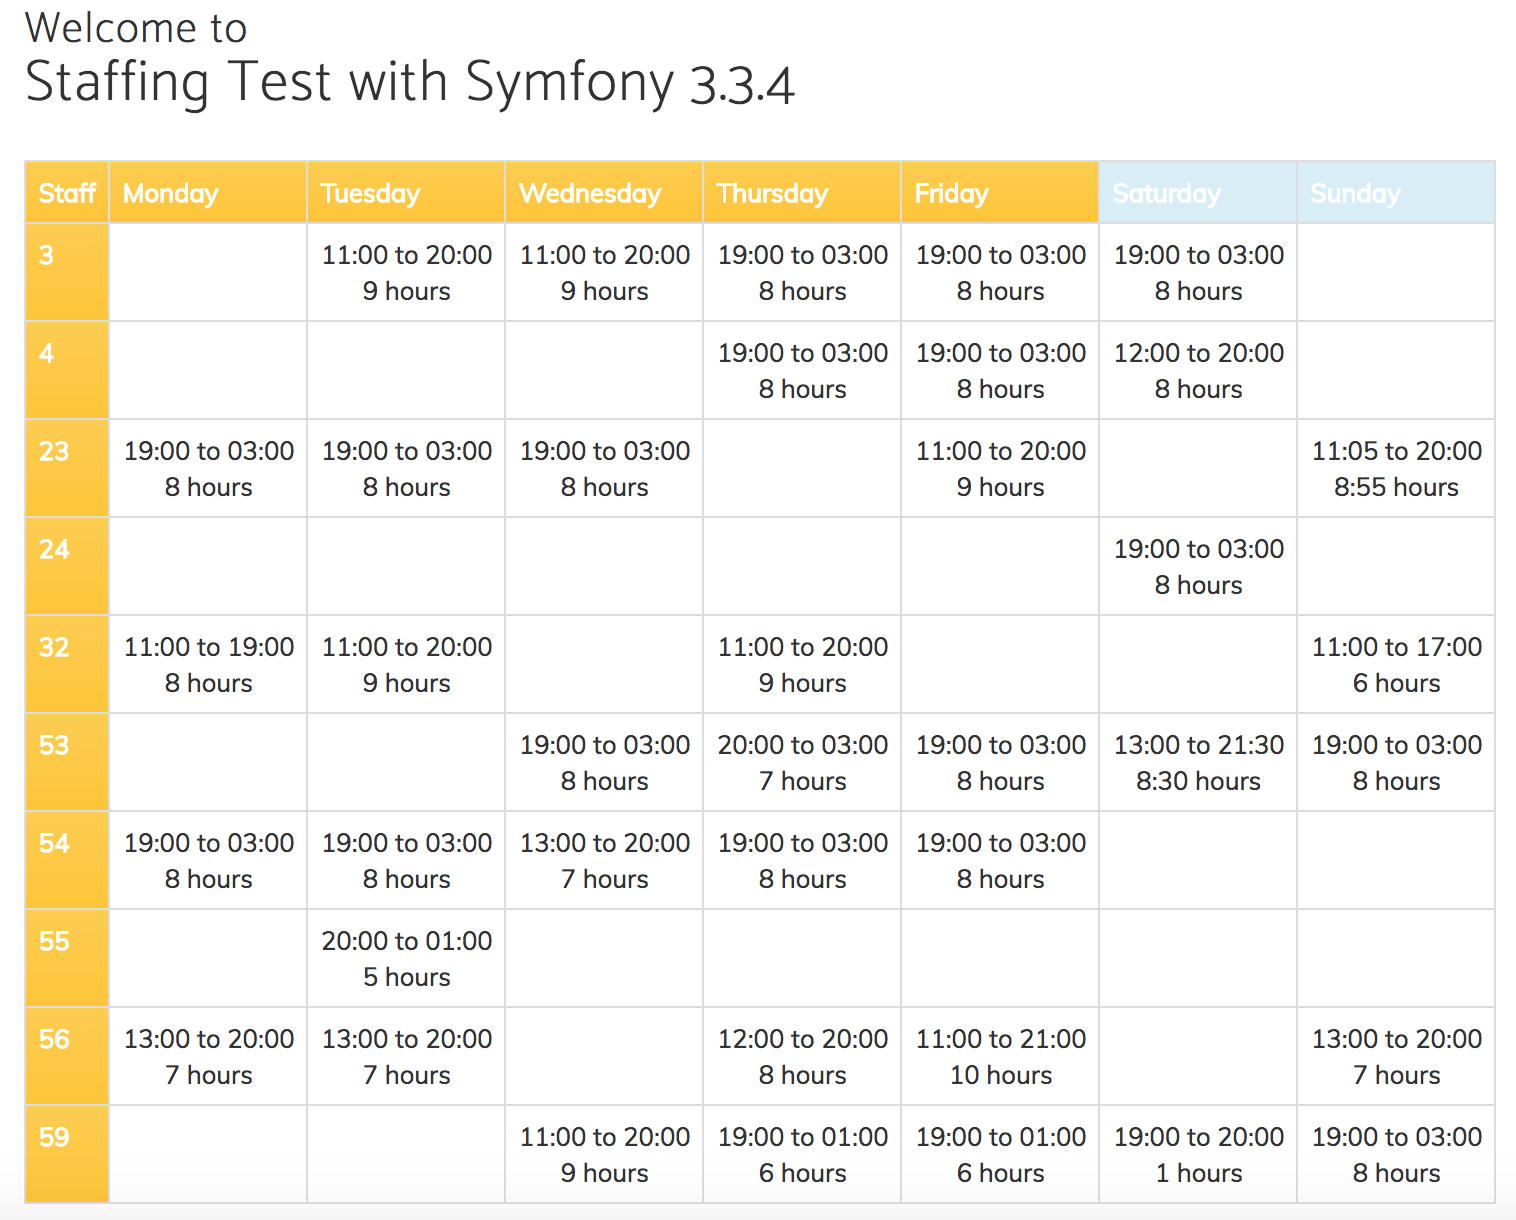
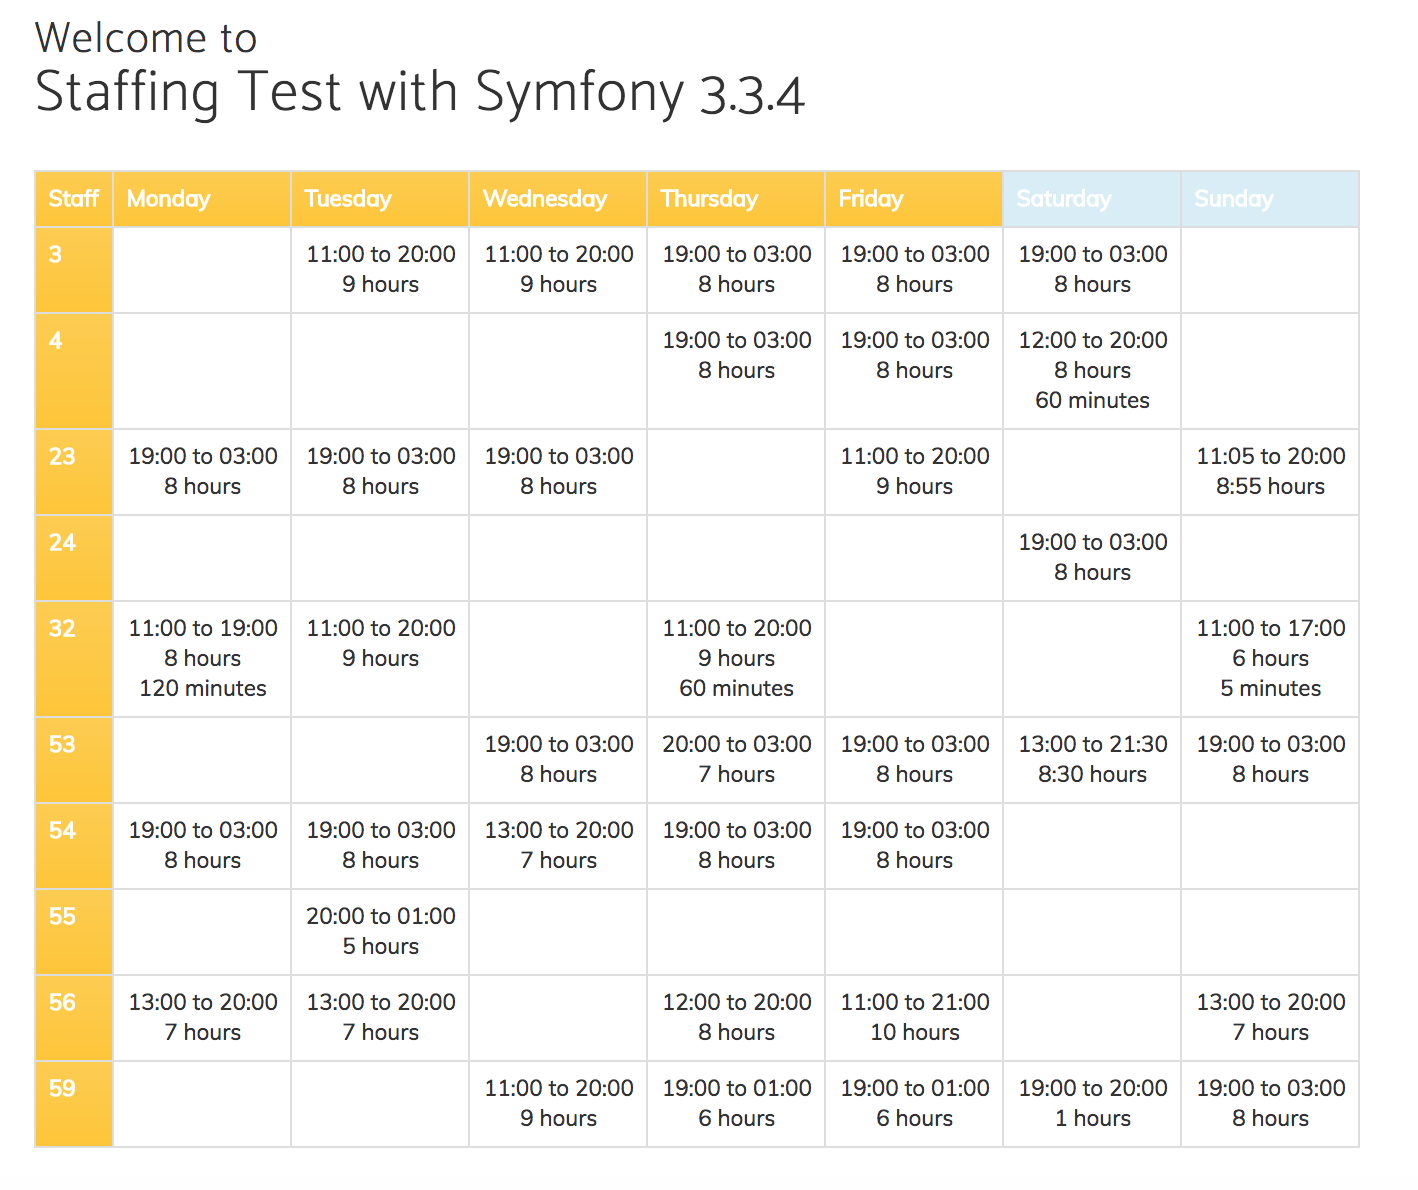
- working alone minutes added - test added

diff --git a/src/AppBundle/Utils/Work.php b/src/AppBundle/Utils/Work.php
@@ -6,7 +6,7 @@ use AppBundle\Entity\StaffSlot;
 
 class Work
 {
-    const DAYS = ['sunday', 'monday', 'tuesday', 'wednesday', 'thursday', 'friday', 'saturday'];
+    protected $days = ['sunday', 'monday', 'tuesday', 'wednesday', 'thursday', 'friday', 'saturday'];
 
     /**
      * Group shift of the staff by staff and day
@@ -21,7 +21,7 @@ class Work
 
         foreach ($staffSlots as $slot)
         {
-            $day = self::DAYS["{$slot->getDayNumber()}"]; // just for preference
+            $day = $this->days["{$slot->getDayNumber()}"]; // just for preference
 
             $startTime = $slot->getStartTime();
             $endTime   = $slot->getEndTime();
@@ -40,6 +40,122 @@ class Work
             ];
         }
 
+
+        $this->calculateAllAloneMinutes($group);
+
         return $group;
+    }
+
+    /**
+     * calculate all the alone minutes and add to the group
+     * @param $groupByShifts
+     */
+    public function calculateAllAloneMinutes (&$groupByShifts)
+    {
+        // check each day shift
+        foreach ($this->days as $day)
+        {
+            $shiftStaff = $this->getDayShiftStaffTimes($groupByShifts, $day);
+
+            $stuffAloneMinutes = [];
+            foreach ($shiftStaff as $id => $employee) {
+                $colleague_shifts = array_diff_key($shiftStaff, [$id => '']);  // build new array and exclude current staff member
+
+                if (in_array($employee, $colleague_shifts)) {  // check for same start and end times elsewhere
+                    $stuffAloneMinutes[$id] = 0;  // exact duplicate allows shortcut as "never alone"
+                } else {
+                    $stuffAloneMinutes[$id] = $this->getStaffAloneTime($colleague_shifts, [$employee]);  // tear down times where target employee is alone
+                }
+            }
+
+            $this->assignAloneMinutes($groupByShifts, $stuffAloneMinutes, $day);
+        }
+    }
+
+    /**
+     * build new array for all the working employees shift for the selected day
+     *
+     * @param array $groupByShifts
+     * @param $day
+     * @return array
+     */
+    public function getDayShiftStaffTimes (Array $groupByShifts, $day)
+    {
+        $shiftDay = [];
+
+        foreach ($groupByShifts as $id => $values)
+        {
+            if (isset($groupByShifts[$id][$day]))
+            {
+                $beginningDay = clone $groupByShifts[$id][$day]['startTime'];
+                $beginningDay->modify('midnight');
+                $shiftDay[$id] = [
+                    abs(($beginningDay->getTimestamp() - $groupByShifts[$id][$day]['startTime']->getTimestamp()) / 60),
+                    abs(($beginningDay->getTimestamp() - $groupByShifts[$id][$day]['endTime']->getTimestamp()) / 60)
+
+                ];
+            }
+        }
+
+        return $shiftDay;
+    }
+
+    /**
+     * get single staff alone minutes after checking with colleague shift times
+     *
+     * @param array $colleague_shifts
+     * @param array $excludeColleague_shifts normally just [$currentEmployee]
+     * @return float|int
+     */
+    public function getStaffAloneTime (Array $colleague_shifts, Array $excludeColleague_shifts)
+    {
+        // initially, PoS is only one element
+        foreach ($colleague_shifts as $colleagueEmployeeId => $colleagueEmployeeTimes) {
+
+            foreach ($excludeColleague_shifts as $excludeEmployeeId => $excludeEmployeeTimes) {
+
+                if ($colleagueEmployeeTimes[0] <= $excludeEmployeeTimes[0] && $colleagueEmployeeTimes[1] >= $excludeEmployeeTimes[1]) {
+                    unset($excludeColleague_shifts[$excludeEmployeeId]);
+                    continue;  // fully covered by coworker
+                }
+
+                $temp = [];
+                if ($excludeEmployeeTimes[0] < $colleagueEmployeeTimes[0] && $colleagueEmployeeTimes[0] < $excludeEmployeeTimes[1]) {
+                    $temp[] = [$excludeEmployeeTimes[0], $colleagueEmployeeTimes[0]];    // push new unmatched start into temp PoS array
+                }
+
+                if ($excludeEmployeeTimes[1] > $colleagueEmployeeTimes[1] && $colleagueEmployeeTimes[1] > $excludeEmployeeTimes[0]) {
+                    $temp[] = [$colleagueEmployeeTimes[1], $excludeEmployeeTimes[1]];    // push new unmatched end into temp PoS array
+                }
+
+                if ($temp) {
+                    array_splice($excludeColleague_shifts, $excludeEmployeeId, 1, $temp);  // replace the current PoS with 1 or 2 new PoS subarrays
+                }
+            }
+            if (!$excludeColleague_shifts) {
+                return 0;  // no minutes alone
+            }
+        }
+
+        // subtract all end alone minutes from all start alone minutes
+        return array_sum(array_column($excludeColleague_shifts, 1)) - array_sum(array_column($excludeColleague_shifts, 0));
+    }
+
+    /**
+     * assign alone minutes back to the group
+     *
+     * @param array $groupByShifts
+     * @param array $aloneTimes
+     * @param $day
+     */
+    protected function assignAloneMinutes (Array &$groupByShifts, Array $aloneTimes, $day)
+    {
+        if (empty($aloneTimes))
+            return;
+
+        foreach ($aloneTimes as $id => $minutes)
+        {
+            $groupByShifts[$id][$day]['workAloneMinutes'] = $minutes;
+        }
     }
 }

diff --git a/tests/AppBundle/Utils/WorkTest.php b/tests/AppBundle/Utils/WorkTest.php
@@ -1,0 +1,90 @@
+<?php
+
+
+namespace AppBundle\Utils;
+
+use Symfony\Bundle\FrameworkBundle\Test\WebTestCase;
+
+class WorkTest extends WebTestCase
+{
+    public function testGetDayShiftStaffTimesNonExistingDay ()
+    {
+        $work = $this->getWork();
+
+        $groupsByShift = $this->getMockGroupByShifts();
+        $tuesdayShift = $work->getDayShiftStaffTimes($groupsByShift, 'tuesday');
+
+        $this->assertCount(0, $tuesdayShift);
+    }
+
+    public function testGetDayShiftStaffTimesArrayCount ()
+    {
+        $work = $this->getWork();
+
+        $groupsByShift = $this->getMockGroupByShifts();
+        $mondayShift = $work->getDayShiftStaffTimes($groupsByShift, 'monday');
+
+        $this->assertCount(4, $mondayShift);
+    }
+
+    public function testGetDayShiftStaffTimesKeysCheck ()
+    {
+        $work = $this->getWork();
+
+        $groupsByShift = $this->getMockGroupByShifts();
+        $mondayShift = $work->getDayShiftStaffTimes($groupsByShift, 'monday');
+
+        $this->assertCount(2, $mondayShift['1']);
+    }
+
+    public function testGetDayShiftStaffTimesValuesCheck ()
+    {
+        $work = $this->getWork();
+
+        $groupsByShift = $this->getMockGroupByShifts();
+        $mondayShift = $work->getDayShiftStaffTimes($groupsByShift, 'monday');
+
+        $this->assertEquals(660, $mondayShift['1']['0']);
+        $this->assertEquals(1140, $mondayShift['1']['1']);
+    }
+
+
+    public function testStaffAloneTimeMatchResult ()
+    {
+        $work = $this->getWork();
+
+        $groupsByShift = $this->getMockGroupByShifts();
+        $mondayShift = $work->getDayShiftStaffTimes($groupsByShift, 'monday');
+
+        $currentEmployee = $mondayShift['1'];
+        $colleagues = $mondayShift;
+        unset($colleagues['1']); // all others
+
+        $this->assertEquals(30, $work->getStaffAloneTime($colleagues, [$currentEmployee]));
+    }
+
+    /**
+     * @return array|mixed
+     */
+    protected function getMockGroupByShifts ()
+    {
+        $groupByShifts = [];
+        $groupByShifts[1]['sunday'] = ['staff' => '1', 'startTime' => (new \DateTime())->modify('2017-02-21 11:00:00'), 'endTime' => (new \DateTime())->modify('2017-02-21 19:00:00'), 'workHours' => 0, 'workAloneMinutes' => 0];
+        $groupByShifts[1]['monday'] = ['staff' => '1', 'startTime' => (new \DateTime())->modify('2017-02-22 11:00:00'), 'endTime' => (new \DateTime())->modify('2017-02-22 19:00:00'), 'workHours' => 0, 'workAloneMinutes' => 0];
+        $groupByShifts[2]['monday'] = ['staff' => '2', 'startTime' => (new \DateTime())->modify('2017-02-22 11:30:00'), 'endTime' => (new \DateTime())->modify('2017-02-22 19:00:00'), 'workHours' => 0, 'workAloneMinutes' => 0];
+        $groupByShifts[3]['monday'] = ['staff' => '3', 'startTime' => (new \DateTime())->modify('2017-02-22 19:00:00'), 'endTime' => (new \DateTime())->modify('2017-02-23 02:00:00'), 'workHours' => 0, 'workAloneMinutes' => 0];
+        $groupByShifts[4]['monday'] = ['staff' => '4', 'startTime' => (new \DateTime())->modify('2017-02-22 19:00:00'), 'endTime' => (new \DateTime())->modify('2017-02-23 03:00:00'), 'workHours' => 0, 'workAloneMinutes' => 0];
+
+        return $groupByShifts;
+    }
+
+    /**
+     * @return Work
+     */
+    protected function getWork ()
+    {
+        $client = self::createClient();
+        return $client->getContainer()->get('app.work');
+    }
+
+}

diff --git a/src/AppBundle/Controller/DefaultController.php b/src/AppBundle/Controller/DefaultController.php
@@ -13,11 +13,9 @@ class DefaultController extends Controller
      */
     public function indexAction(Request $request)
     {
-
         $slots = $this->getDoctrine()->getRepository('AppBundle:StaffSlot')->workingShifts();
         $work  = $this->get('app.work');
         $shifts = $work->shiftGroupByStaff($slots);
-
 
         // replace this example code with whatever you need
         return $this->render('default/index.html.twig', [
